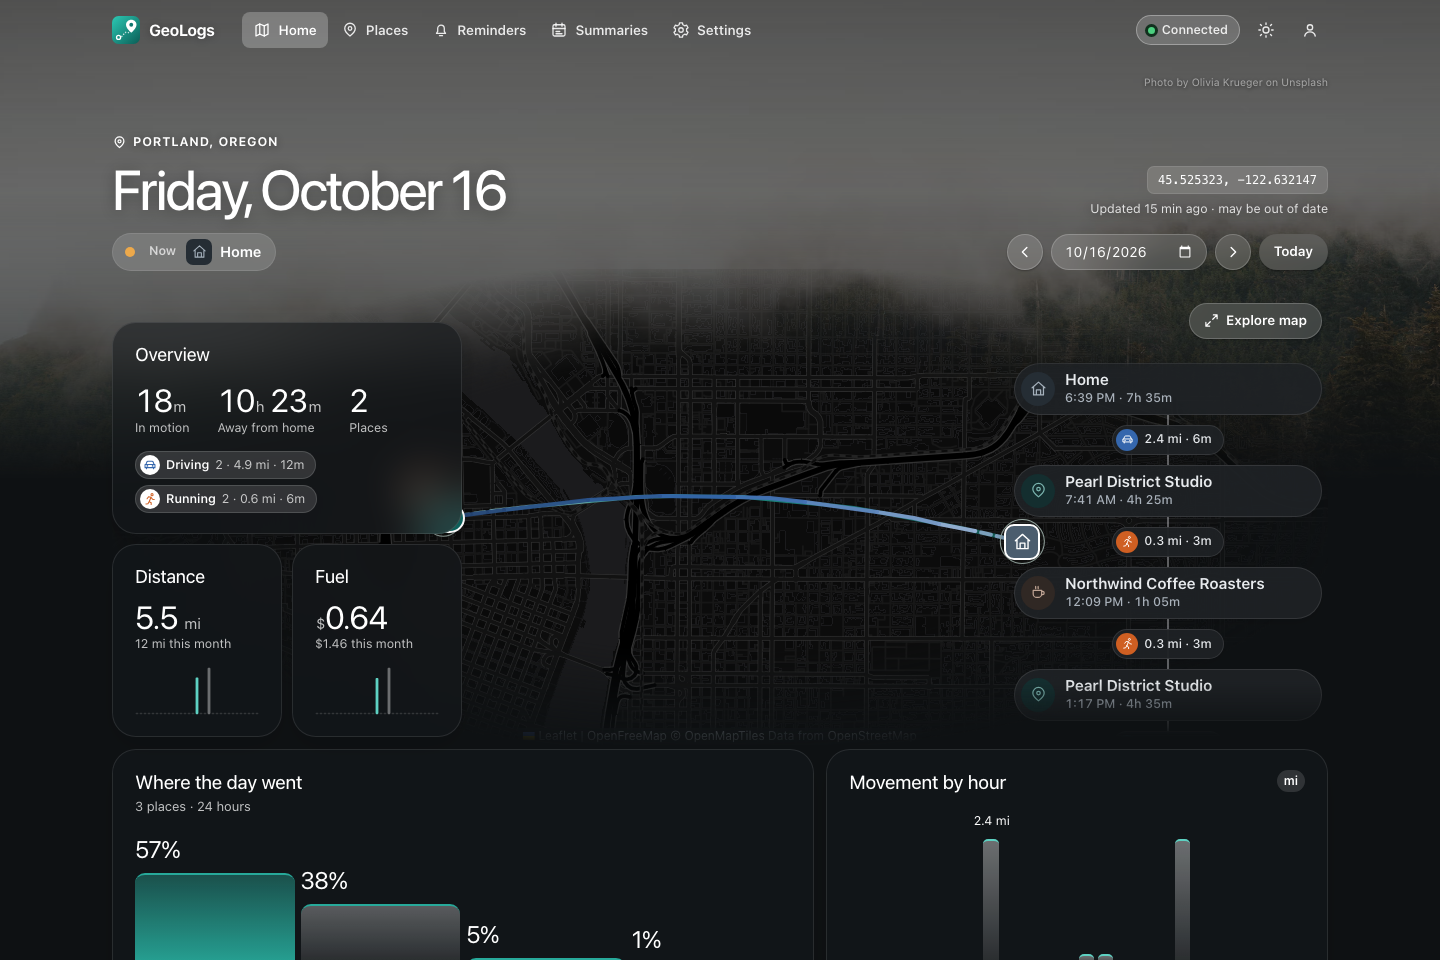
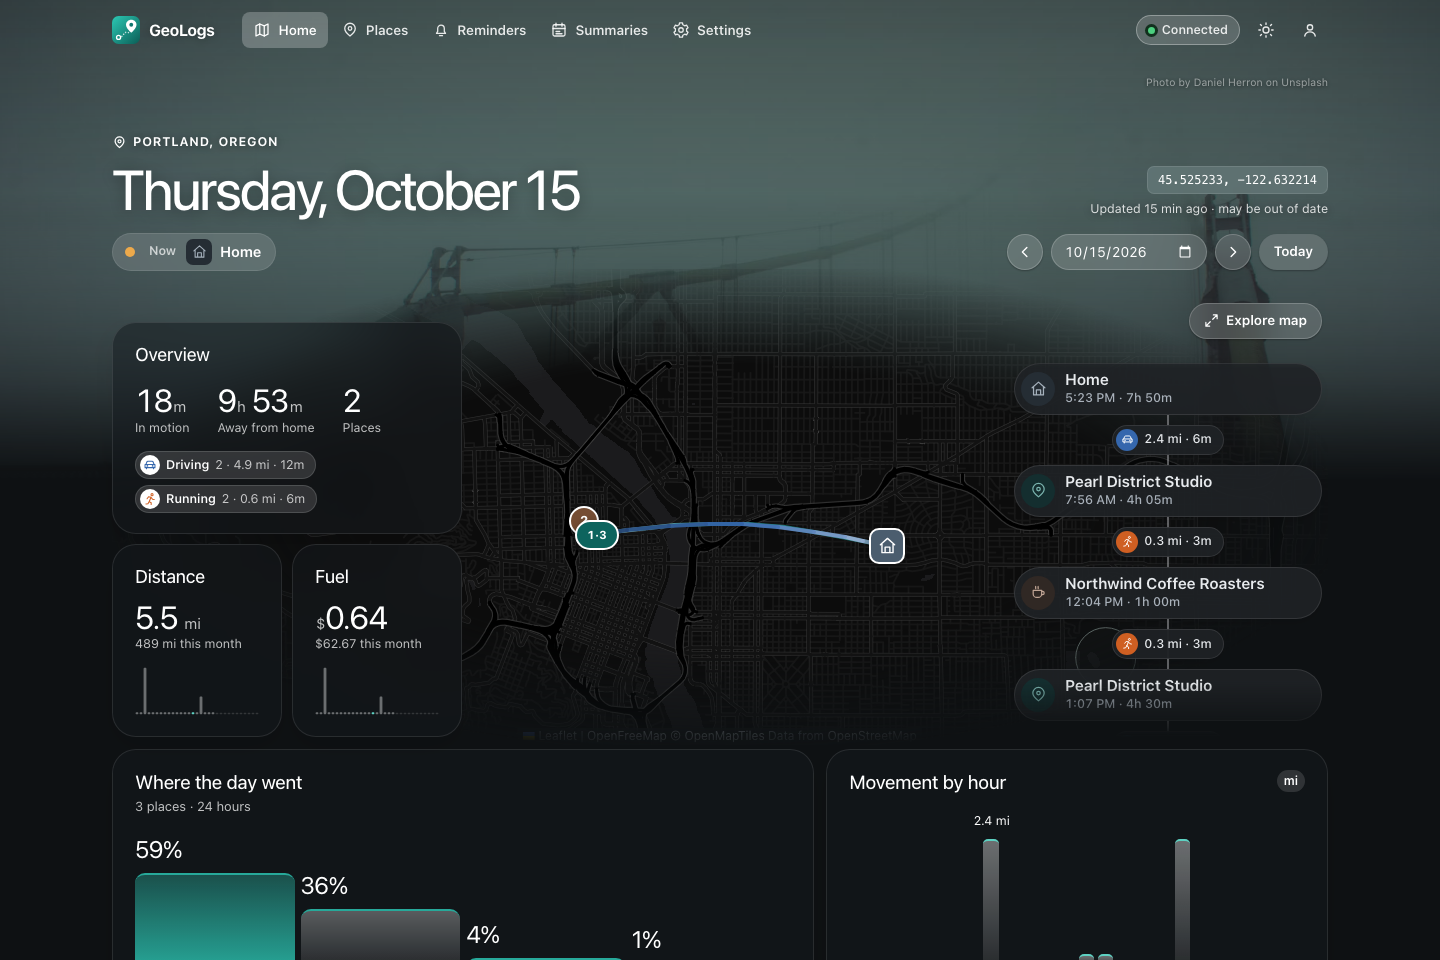
feat: update README and images for improved documentation clarity

diff --git a/src/geologs/presentation/web/js/views/auth.js b/src/geologs/presentation/web/js/views/auth.js
@@ -109,8 +109,10 @@ async function openLink() {
 
 export async function initAuth() {
   document.addEventListener("geologs:sign-in", (event) => {
-    // A reset or invite form stays open: it is what this visit is for.
-    if (!$("auth-panel").hidden && (mode === "reset" || mode === "invite")) return;
+    // Background polls ask again every few seconds while signed out; a sign-in screen already open is
+    // left as it is, so the cursor stays where the person is typing (and a reset or invite form, which
+    // is what this visit is for, stays open).
+    if (!$("auth-panel").hidden) return;
     state.user = null;
     let preferred = "signin";
     try {

diff --git a/README.md b/README.md
@@ -26,8 +26,6 @@ Your history stays in a PostgreSQL database that you run. Nothing is sent to any
 | ![Summaries: a month at a glance](docs/images/summaries.png) | ![Places: where you spend your time](docs/images/places.png) |
 | **Summaries**: a month with its towns, calendar and places | **Places**: a heat map of where you go, beside your visits |
 
-![Settings, Admin: accounts and their usage, never their locations](docs/images/admin.png)
-
 *The screenshots show made-up data for a fictional person.*
 
 ## Quick start
